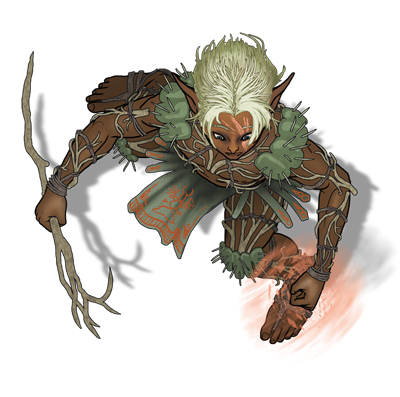
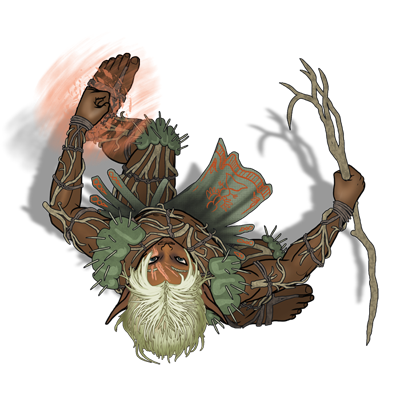
Fixed summoner/sneak sprites

diff --git a/src/Model/Level/GameModel.java b/src/Model/Level/GameModel.java
@@ -1,9 +1,6 @@
 package Model.Level;
 
-import Controller.Factories.EntityFactories.EntityFactory;
-import Controller.Factories.EntityFactories.MonsterFactory;
-import Controller.Factories.EntityFactories.PetFactory;
-import Controller.Factories.EntityFactories.SmasherFactory;
+import Controller.Factories.EntityFactories.*;
 import Controller.Factories.ItemFactory;
 import Controller.Factories.SkillsFactory;
 import Controller.Visitor.Visitable;
@@ -84,7 +81,7 @@ public class GameModel implements Visitable {
 
         skillsFactory = new SkillsFactory(currentLevelMessenger);
 
-        entityFactory = new SmasherFactory(skillsFactory);
+        entityFactory = new SummonerFactory(skillsFactory);
 
         player = entityFactory.buildEntity();
 
@@ -223,7 +220,7 @@ public class GameModel implements Visitable {
 
         //currentLevel.addInfluenceEffectTo(new Point3D(-2, -1, 3), new RadialInfluenceEffect(new RemoveHealthCommand(100), 5, 5, Orientation.NORTH));
         ItemFactory itemFactory = new ItemFactory(skillsFactory, currentLevelMessenger);
-        WeaponItem weaponItem = itemFactory.getRangedWeapon();
+        WeaponItem weaponItem = itemFactory.getStaff();
         weaponItem.notifyObserver(new Point3D(1, -1, 0));
         currentLevel.addItemTo(new Point3D(1, -1, 0), weaponItem);
 

diff --git a/src/Controller/Factories/ItemFactory.java b/src/Controller/Factories/ItemFactory.java
@@ -10,6 +10,7 @@ import Model.Item.Item;
 import Model.Item.TakeableItem.ConsumableItem;
 import Model.Item.TakeableItem.WeaponItem;
 import Model.Level.LevelMessenger;
+import View.LevelView.InfluenceEffectView;
 import View.LevelView.ItemView;
 import javafx.geometry.Point3D;
 
@@ -73,6 +74,7 @@ public class ItemFactory {
     public WeaponItem getRangedWeapon(){
         RemoveHealthCommand command = new RemoveHealthCommand(10);
         LinearInfluenceEffect influenceEffect = new LinearInfluenceEffect(command, 10, 10, Orientation.NORTH);
+
         Skill skill = skillsFactory.getRangeSkill();
         WeaponItem staff1 = new WeaponItem("Ranged Weapon", command, skill, influenceEffect, 8, 5, 10, 10, 1 );
         staff1.setCurrentLevelMessenger(levelMessenger);

diff --git a/src/View/LevelView/InfluenceEffectView.java b/src/View/LevelView/InfluenceEffectView.java
@@ -32,5 +32,13 @@ public class InfluenceEffectView extends LevelViewElement { // TODO: implement
 
     }
 
+    public void setArrow() {
+        String workingDir = System.getProperty("user.dir");
+
+        File file = new File(workingDir + "/src/View/Assets/arrow.png");
+
+        setSprite(new Image(file.toURI().toString()));
+    }
+
 
 }
